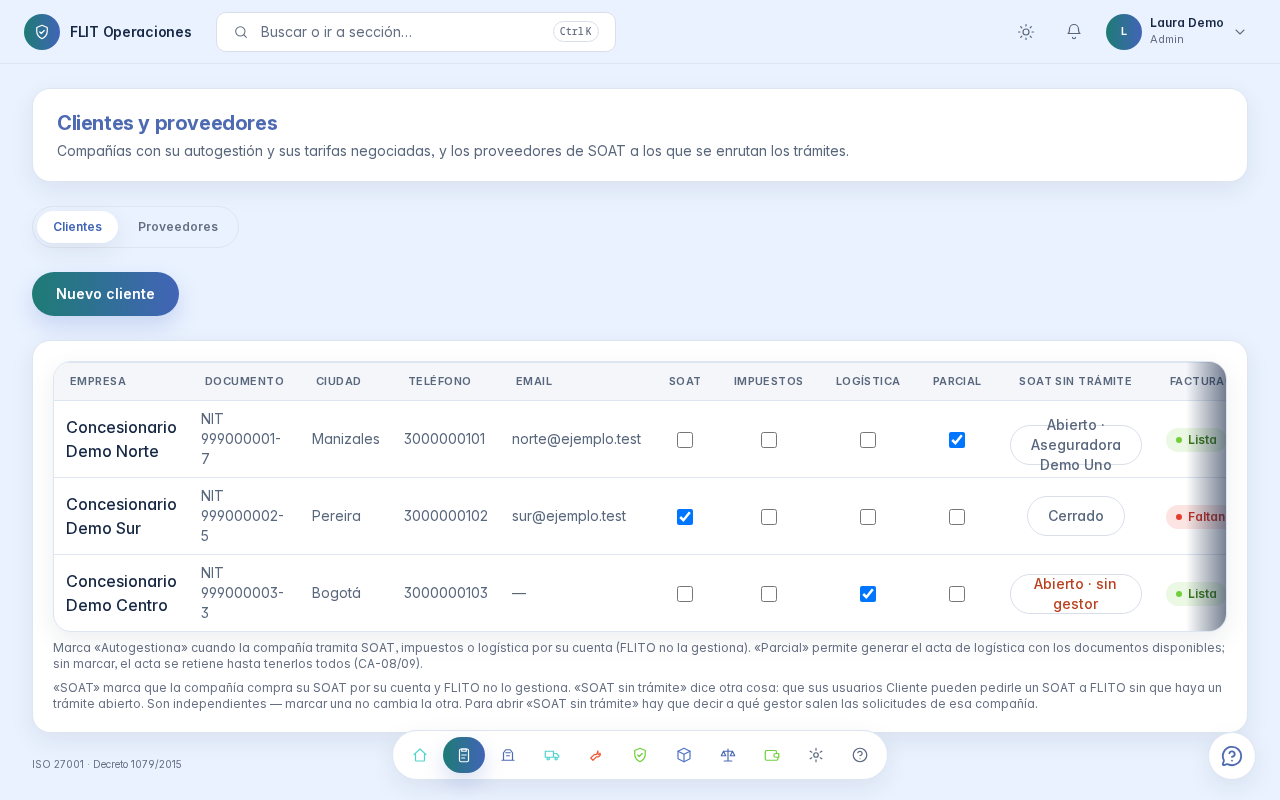
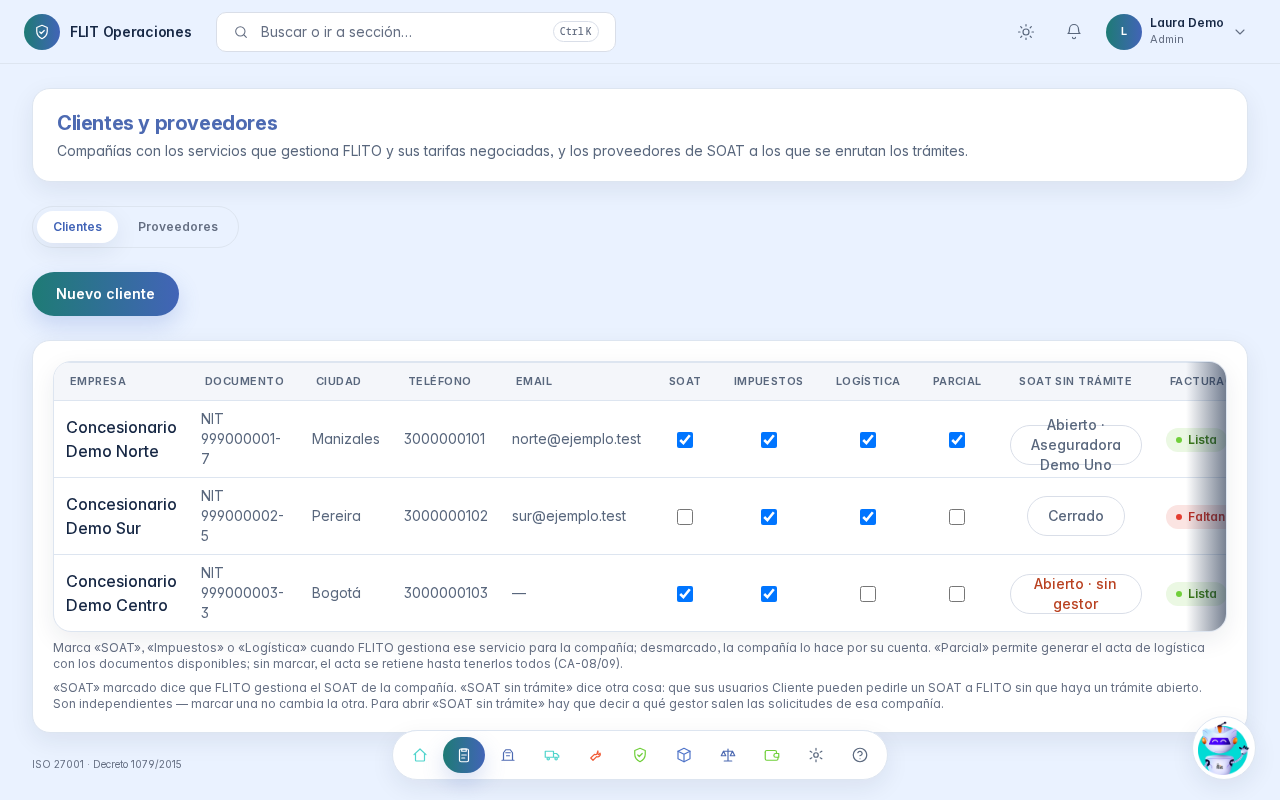
Merge pull request #590 from flitsas/HU/13935-davidchica-checks-servicio-flito-gestiona
HU 13935: checks de servicio de Clientes y Trámites se leen como «FLITO gestiona este servicio»

(cherry picked from commit 7e073a7977bce29601f5767464607f284d6aab4a)

diff --git a/apps/web/e2e/tests/clients-autogestion.spec.ts b/apps/web/e2e/tests/clients-autogestion.spec.ts
@@ -1,6 +1,9 @@
-// Clientes (/clients) — una sola tabla: info de empresa + checkboxes de autogestión FLITO
+// Clientes (/clients) — una sola tabla: info de empresa + checkboxes de servicio
 // (SOAT/Impuestos/Logística) inline. Un cliente ES una compañía FLITO (§correcciones-UX).
 // Solo Operaciones/admin lo ven; backend mockeado.
+//
+// HU #13935: los checks se leen «FLITO gestiona este servicio». El dato `*Autogestionable` conserva
+// su sentido, así que marcado = `false` en el dato. «Parcial» no se invierte (lo retira la #13936).
 import { test, expect } from '../helpers/fixtures';
 import { loginAs, OPERACIONES_USER, AUDITOR_USER } from '../helpers/auth';
 
@@ -8,7 +11,8 @@ const CLIENTES = [
   {
     id: 1, name: 'Concesionario Norte', document: '900111', documentType: 'NIT',
     phone: '3001112233', email: 'norte@x.co', address: null, city: 'Manizales', notes: null, active: true,
-    soatAutogestionable: true, soatSinTramite: false, impuestosAutogestionable: false, logisticaAutogestionable: false,
+    soatAutogestionable: true, soatSinTramite: false, impuestosAutogestionable: false, logisticaAutogestionable: true,
+    logisticaPermiteParcial: true,
   },
 ];
 
@@ -17,25 +21,61 @@ async function mock(page: import('@playwright/test').Page, clientes = CLIENTES) 
     route.fulfill({ status: 200, contentType: 'application/json', body: JSON.stringify(clientes) }));
 }
 
-test.describe('Clientes · autogestión FLITO', () => {
-  test('operaciones ve una sola tabla con la empresa y sus checkboxes de autogestión', async ({ page }) => {
+const check = (page: import('@playwright/test').Page, servicio: string) =>
+  page.getByRole('checkbox', { name: `FLITO gestiona ${servicio} de Concesionario Norte` });
+
+test.describe('Clientes · servicios que gestiona FLITO (HU #13935)', () => {
+  test('AC1/AC5: el check marcado es «FLITO gestiona» y lee el dato invertido', async ({ page }) => {
     await loginAs(page, OPERACIONES_USER);
     await mock(page);
+    let patches = 0;
+    await page.route(/\/api\/flito\/parametrizacion\/companias\//, (route) => { patches += 1; return route.fulfill({ status: 200, body: '{}' }); });
 
     await page.goto('/clients');
     await expect(page.getByText('Concesionario Norte')).toBeVisible();
-    // Info relevante de la empresa.
     await expect(page.getByRole('cell', { name: /900111/ })).toBeVisible();
     await expect(page.getByRole('cell', { name: 'Manizales' })).toBeVisible();
-    // Checkboxes reflejan los flags: SOAT marcado, Impuestos/Logística no.
-    await expect(page.getByRole('checkbox', { name: /Autogestión SOAT de Concesionario Norte/ })).toBeChecked();
-    await expect(page.getByRole('checkbox', { name: /Autogestión Impuestos de Concesionario Norte/ })).not.toBeChecked();
-    // Ya no hay dos tablas ni botón Editar / columna Tolerancia.
+    // soat=true → desmarcado; impuestos=false → marcado; logística=true → desmarcado.
+    await expect(check(page, 'SOAT')).not.toBeChecked();
+    await expect(check(page, 'Impuestos')).toBeChecked();
+    await expect(check(page, 'Logística')).not.toBeChecked();
+    // «Parcial» conserva su lectura directa.
+    await expect(page.getByRole('checkbox', { name: 'Entregas parciales de Concesionario Norte' })).toBeChecked();
+    // AC5: ningún nombre accesible ni nota habla de «Autogestión» del check.
+    await expect(page.getByRole('checkbox', { name: /Autogestión/ })).toHaveCount(0);
+    await expect(page.getByText(/Marca «Autogestiona»/)).toHaveCount(0);
+    await expect(page.getByText(/cuando FLITO gestiona ese servicio/)).toBeVisible();
+    // Solo pintar no escribe nada.
+    expect(patches).toBe(0);
     await expect(page.getByRole('button', { name: 'Editar' })).toHaveCount(0);
     await expect(page.getByRole('columnheader', { name: /Tolerancia/i })).toHaveCount(0);
   });
 
-  test('marcar un checkbox dispara el PATCH del flag de la compañía', async ({ page }) => {
+  test('AC2: marcar Logística envía logisticaAutogestionable=false y sigue marcado al recargar', async ({ page }) => {
+    await loginAs(page, OPERACIONES_USER);
+    let datos = CLIENTES.map((c) => ({ ...c }));
+    await page.route(/\/api\/clients(\?|$)/, (route) =>
+      route.fulfill({ status: 200, contentType: 'application/json', body: JSON.stringify(datos) }));
+    let body: Record<string, unknown> | null = null;
+    await page.route(/\/api\/flito\/parametrizacion\/companias\/1$/, async (route) => {
+      body = route.request().postDataJSON() as Record<string, unknown>;
+      expect(route.request().method()).toBe('PATCH');
+      datos = datos.map((c) => ({ ...c, ...body }));
+      return route.fulfill({ status: 200, contentType: 'application/json', body: JSON.stringify({ id: 1 }) });
+    });
+
+    await page.goto('/clients');
+    await check(page, 'Logística').check();
+
+    await expect.poll(() => body).not.toBeNull();
+    expect(body).toEqual({ logisticaAutogestionable: false });
+    await expect(check(page, 'Logística')).toBeChecked();
+
+    await page.reload();
+    await expect(check(page, 'Logística')).toBeChecked();
+  });
+
+  test('desmarcar Impuestos envía impuestosAutogestionable=true', async ({ page }) => {
     await loginAs(page, OPERACIONES_USER);
     await mock(page);
     let body: Record<string, unknown> | null = null;
@@ -45,11 +85,70 @@ test.describe('Clientes · autogestión FLITO', () => {
     });
 
     await page.goto('/clients');
-    await page.getByRole('checkbox', { name: /Autogestión Impuestos de Concesionario Norte/ }).check();
+    await check(page, 'Impuestos').uncheck();
+    await expect.poll(() => body).toEqual({ impuestosAutogestionable: true });
+    await expect(check(page, 'Impuestos')).not.toBeChecked();
+  });
 
-    await expect.poll(() => body).not.toBeNull();
-    expect(body).toMatchObject({ impuestosAutogestionable: true });
-    await expect(page.getByRole('checkbox', { name: /Autogestión Impuestos de Concesionario Norte/ })).toBeChecked();
+  test('AC3: si el PATCH falla, el check vuelve y sale un toast cerrable sin el error crudo', async ({ page }) => {
+    await loginAs(page, OPERACIONES_USER);
+    await mock(page);
+    await page.route(/\/api\/flito\/parametrizacion\/companias\/1$/, (route) =>
+      route.fulfill({ status: 500, contentType: 'application/json', body: JSON.stringify({ error: 'DB_TIMEOUT pg_pool' }) }));
+
+    await page.goto('/clients');
+    await check(page, 'SOAT').click();
+    await expect(check(page, 'SOAT')).not.toBeChecked();
+
+    const aviso = page.getByRole('alert').filter({ hasText: 'No se pudo guardar «SOAT» de Concesionario Norte' });
+    await expect(aviso).toBeVisible();
+    await expect(aviso).not.toContainText('DB_TIMEOUT');
+    await aviso.getByRole('button', { name: 'Cerrar aviso' }).click();
+    await expect(aviso).toHaveCount(0);
+  });
+});
+
+// AC4 — modal «Crear empresa» de Gestión Trámites: mismo sentido de lectura.
+const FILA_SIN_EMPRESA = {
+  tramiteId: 'cccccccc-0000-0000-0000-000000000001', idFlit: 'FLIT-3001', estado: 'Asignado', asignado: true,
+  fuente: 'flit', tipoTramite: 'Matricula', ciudad: 'Manizales', fechaCreacion: null, fechaAprobacion: null,
+  derechoTramiteValor: null, empresaExiste: false, empresaNit: '900999', secretariaEmparejada: true,
+  transitoNombre: 'STT Manizales', facturaVentaFlitId: null, companiaNombre: 'Empresa Nueva',
+  organismoNombre: 'STT Manizales', vehiculo: { vin: 'VIN000000000301', placa: 'PLC301', marca: 'Mazda', linea: '2', tipoVehiculo: null },
+  compradorPrincipal: null, compradores: [], soat: null, soatAutogestionado: false, impuesto: null,
+  impuestosAutogestionado: false, excepcionesAutogestion: [], listoParaEntregar: false,
+};
+
+test('AC4: «Crear empresa» titula «Servicios que gestiona FLITO» y lo marcado viaja como *Autogestionable=false', async ({ page }) => {
+  await page.route(/\/api\/flito\/tramites\/facetas/, (route) => route.fulfill({ status: 200, contentType: 'application/json',
+    body: JSON.stringify({ estados: ['Asignado'], tramites: ['Matricula'], ciudades: ['Manizales'], transitos: ['STT Manizales'] }) }));
+  await page.route(/\/api\/flito\/tramites\?/, (route) => route.fulfill({ status: 200, contentType: 'application/json',
+    body: JSON.stringify({ items: [FILA_SIN_EMPRESA], total: 1, page: 1, pageSize: 50 }) }));
+  let body: Record<string, unknown> | null = null;
+  await page.route(/\/api\/flito\/tramites\/crear-empresa$/, (route) => {
+    body = route.request().postDataJSON() as Record<string, unknown>;
+    return route.fulfill({ status: 200, contentType: 'application/json', body: JSON.stringify({ id: 9 }) });
+  });
+  await loginAs(page, OPERACIONES_USER);
+  await page.goto('/flito/tramites');
+  await page.getByRole('button', { name: 'Crear empresa' }).click();
+
+  const modal = page.getByRole('dialog');
+  await expect(modal.getByText('Servicios que gestiona FLITO')).toBeVisible();
+  await expect(modal.getByText(/Autogestión/)).toHaveCount(0);
+  // El estado inicial del dato (`false` = FLITO gestiona) no cambia en esta HU (lo hace la #13937):
+  // por eso las tres casillas nacen marcadas. Desmarcar Impuestos ⇒ la empresa lo hace por su cuenta.
+  await expect(modal.getByRole('checkbox', { name: 'SOAT' })).toBeChecked();
+  await modal.getByRole('checkbox', { name: 'Impuestos' }).uncheck();
+  // «Marcar SOAT» se ejercita de verdad: desmarcar y volver a marcar recorre los dos sentidos del onChange.
+  await modal.getByRole('checkbox', { name: 'SOAT' }).uncheck();
+  await expect(modal.getByRole('checkbox', { name: 'SOAT' })).not.toBeChecked();
+  await modal.getByRole('checkbox', { name: 'SOAT' }).check();
+  await modal.getByRole('button', { name: 'Crear empresa' }).click();
+
+  await expect.poll(() => body).not.toBeNull();
+  expect(body).toMatchObject({
+    nit: '900999', soatAutogestionable: false, impuestosAutogestionable: true, logisticaAutogestionable: false,
   });
 });
 

diff --git a/apps/web/src/pages/Clients.tsx b/apps/web/src/pages/Clients.tsx
@@ -4,18 +4,23 @@
 // compañía: en una se marcaba si autogestiona, en la otra se le ponían las tarifas — y el toggle de
 // autogestión ya llamaba al endpoint de parametrización. Todo lo que es del cliente vive aquí.
 //
+// Los checks de servicio se leen «FLITO gestiona este servicio» (HU #13935): marcado = FLITO lo
+// gestiona; desmarcado = la compañía lo hace por su cuenta. Es una inversión SOLO de presentación:
+// el dato sigue siendo `*Autogestionable` con su sentido de siempre, así que `checked = !dato`.
+//
 // Las tarifas ya NO viven aquí (HU #12375): el botón «Tarifas» de la fila lleva al configurador de
 // valores (`/flito/tarifas/:companiaId`), que modela cada valor como una vigencia con historial. La
 // ventana emergente que dejaba escribir el tipo a mano y marcar «Inactiva» se retiró con esa HU.
 //
 // Quién puede qué:
 //   admin       — todo.
-//   financiera  — tarifas sí (en su pantalla), autogestión no: qué gestiona FLITO es decisión de Operaciones.
+//   financiera  — tarifas sí (en su pantalla), servicios no: qué gestiona FLITO es decisión de Operaciones.
 //   auditor     — solo lectura.
 
 import { useEffect, useId, useMemo, useState, type FormEvent } from 'react';
 import { Link } from 'react-router-dom';
 import toast from 'react-hot-toast';
+import { toastError } from '../components/flit/ToastFlito';
 import { api, errorMessage } from '../lib/api';
 import { useAuth } from '../lib/auth';
 import { hasPage } from '../lib/permissions';
@@ -85,6 +90,11 @@ interface Proveedor {
 // optimista para ser una decisión con un parámetro obligatorio —el gestor—, y un PATCH por control
 // no sabe expresar «abre el canal y manda a SURA» de una sola vez. Vive en `ModalCanalSoat`.
 type FlagCampo = 'soatAutogestionable' | 'impuestosAutogestionable' | 'logisticaAutogestionable' | 'logisticaPermiteParcial';
+// Los tres `*Autogestionable` se pintan invertidos (HU #13935): el check dice «FLITO gestiona».
+// «Parcial» no es un servicio y conserva su lectura directa.
+const FLAG_INVERTIDO: Record<FlagCampo, boolean> = {
+  soatAutogestionable: true, impuestosAutogestionable: true, logisticaAutogestionable: true, logisticaPermiteParcial: false,
+};
 type Tab = 'clientes' | 'proveedores';
 
 export default function Clients() {
@@ -101,7 +111,7 @@ export default function Clients() {
     <div className="mx-auto flex max-w-[1600px] flex-col gap-5 lg:gap-6">
       <PageHeaderCard
         title="Clientes y proveedores"
-        subtitle="Compañías con su autogestión y sus tarifas negociadas, y los proveedores de SOAT a los que se enrutan los trámites."
+        subtitle="Compañías con los servicios que gestiona FLITO y sus tarifas negociadas, y los proveedores de SOAT a los que se enrutan los trámites."
       />
 
       <FlitPillGroup>
@@ -171,17 +181,22 @@ function TabClientes({ editaAutogestion, veTarifas }: { editaAutogestion: boolea
     }
   };
 
-  // Toggle de autogestión: PATCH del flag suelto. Optimista con reversión si falla.
-  const toggleFlag = async (c: Client, campo: FlagCampo) => {
+  // Toggle de un flag: PATCH del flag suelto. Optimista con reversión si falla. Invertir la lectura
+  // (HU #13935) no cambia esto: marcar o desmarcar siempre voltea el dato, y lo que viaja es el
+  // valor REAL de `*Autogestionable` (marcar «FLITO gestiona» ⇒ `false`).
+  const toggleFlag = async (c: Client, campo: FlagCampo, label: string) => {
     const valor = !c[campo];
     setClients((prev) => (prev ?? []).map((x) => (x.id === c.id ? { ...x, [campo]: valor } : x)));
     try {
       // El PATCH manda UNA sola clave y el servidor copia al `set` solo las claves definidas: por
       // eso la independencia del AC3 es por construcción y no por una regla que haya que recordar.
       await api.patch(`/flito/parametrizacion/companias/${c.id}`, { [campo]: valor });
-    } catch (err) {
+    } catch {
       setClients((prev) => (prev ?? []).map((x) => (x.id === c.id ? { ...x, [campo]: !valor } : x)));
-      toast.error(errorMessage(err));
+      // Copy propio y no el error crudo del API: qué pasó y qué sigue, en una frase.
+      // El toast del kit es cerrable; un id por casilla para que el reintento sustituya y no apile.
+      toastError(`No se pudo guardar «${label}» de ${c.name}: la casilla volvió a como estaba. Inténtelo de nuevo.`,
+        undefined, { id: `flag-${c.id}-${campo}` });
     }
   };
 
@@ -190,10 +205,10 @@ function TabClientes({ editaAutogestion, veTarifas }: { editaAutogestion: boolea
       <input
         type="checkbox"
         className="h-4 w-4 cursor-pointer align-middle disabled:cursor-not-allowed"
-        checked={c[campo]}
+        checked={FLAG_INVERTIDO[campo] ? !c[campo] : c[campo]}
         disabled={!editaAutogestion}
-        aria-label={aria ?? `Autogestión ${label} de ${c.name}`}
-        onChange={() => toggleFlag(c, campo)}
+        aria-label={aria ?? `FLITO gestiona ${label} de ${c.name}`}
+        onChange={() => toggleFlag(c, campo, label)}
       />
     </td>
   );
@@ -285,13 +300,13 @@ function TabClientes({ editaAutogestion, veTarifas }: { editaAutogestion: boolea
         )}
         {editaAutogestion && (
           <p className="mt-2 text-xs" style={{ color: 'var(--flit-text-muted)' }}>
-            Marca «Autogestiona» cuando la compañía tramita SOAT, impuestos o logística por su cuenta (FLITO no la gestiona).
+            Marca «SOAT», «Impuestos» o «Logística» cuando FLITO gestiona ese servicio para la compañía; desmarcado, la compañía lo hace por su cuenta.
             «Parcial» permite generar el acta de logística con los documentos disponibles; sin marcar, el acta se retiene hasta tenerlos todos (CA-08/09).
           </p>
         )}
         {editaAutogestion && (
           <p className="mt-2 text-xs" style={{ color: 'var(--flit-text-muted)' }}>
-            «SOAT» marca que la compañía compra su SOAT por su cuenta y FLITO no lo gestiona. «SOAT sin trámite» dice otra cosa:
+            «SOAT» marcado dice que FLITO gestiona el SOAT de la compañía. «SOAT sin trámite» dice otra cosa:
             que sus usuarios Cliente pueden pedirle un SOAT a FLITO sin que haya un trámite abierto. Son independientes — marcar una no cambia la otra.
             Para abrir «SOAT sin trámite» hay que decir a qué gestor salen las solicitudes de esa compañía.
           </p>

diff --git a/apps/web/e2e/tests/flito-ayuda-artefactos.spec.ts b/apps/web/e2e/tests/flito-ayuda-artefactos.spec.ts
@@ -291,7 +291,7 @@ test.describe('FLITO — Ayuda · artefactos AC6/AC7', () => {
   // HU #13771 — manuales del área Corredor SOAT: misma comprobación que el bloque de Facturación (versión y fecha
   // exactas, capturas citadas en orden con alt y ≤ 200 KB, diagrama SVG con alt o ninguno). Tablero y Bitácora
   // son de solo lectura y de tres pasos o menos: sin diagrama.
-  const SOAT_13771: Record<string, { version: string; capturas: string[]; diagrama: string | null }> = {
+  const SOAT_13771: Record<string, { version: string; capturas: string[]; diagrama: string | null; fecha?: string }> = {
     soat: { version: '1.2', diagrama: 'ciclo-soat.svg', capturas: [
       '01-cola.png', '02-enviar-al-gestor.png', '03-detalle.png', '04-solicitar-soat.png'] },
     flito_tramites: { version: '1.2', diagrama: 'camino-a-entregar.svg', capturas: [
@@ -301,19 +301,20 @@ test.describe('FLITO — Ayuda · artefactos AC6/AC7', () => {
     flito_bitacora: { version: '1.2', diagrama: null, capturas: ['01-movimientos.png'] },
     flito_comparendos: { version: '1.2', diagrama: 'ciclo-monitoreo.svg', capturas: [
       '01-registros.png', '02-detalle.png', '03-sincronizacion.png', '04-configuracion.png'] },
-    clients: { version: '1.2', diagrama: 'canal-soat-sin-tramite.svg', capturas: [
+    // HU #13935: la ficha de Clientes cambió después (checks «FLITO gestiona»).
+    clients: { version: '1.3', fecha: '2026-10-24', diagrama: 'canal-soat-sin-tramite.svg', capturas: [
       '01-clientes.png', '02-soat-sin-tramite.png', '03-proveedores.png'] },
     flito_tablero: { version: '1.2', diagrama: null, capturas: ['01-indicadores-y-alertas.png', '02-por-estado.png'] },
   };
 
   for (const [clave, esperado] of Object.entries(SOAT_13771)) {
-    test(`HU #13771 — ${clave}: versión ${esperado.version} del 2026-10-22, capturas y diagrama con alt`, () => {
+    test(`HU #13771 — ${clave}: versión ${esperado.version} del ${esperado.fecha ?? '2026-10-22'}, capturas y diagrama con alt`, () => {
       const md = leer(`apps/web/src/content/ayuda/${clave}.md`);
       const { encabezado, errores } = parsearFicha(md);
       expect(errores, clave).toEqual([]);
       // AC5 — la ficha cambió: sube la versión menor y la fecha.
       expect(encabezado!.version, `${clave} · version`).toBe(esperado.version);
-      expect(String(encabezado!.fecha), `${clave} · fecha`).toBe('2026-10-22');
+      expect(String(encabezado!.fecha), `${clave} · fecha`).toBe(esperado.fecha ?? '2026-10-22');
       // AC4 — sin rutas de API ni rutas de la app en el texto.
       expect(md, `${clave} · sin rutas`).not.toMatch(/`\/|\/api\//);
 

diff --git a/apps/web/src/pages/FlitoTramites.tsx b/apps/web/src/pages/FlitoTramites.tsx
@@ -948,6 +948,7 @@ function ModalDesbloqueo({ fila, onCerrar, onHecho }: {
 
 function ModalCrearEmpresa({ fila, onCerrar, onCreado }: { fila: TramiteFila; onCerrar: () => void; onCreado: () => void }) {
   const [nombre, setNombre] = useState(fila.companiaNombre ?? '');
+  // El estado guarda el DATO (`*Autogestionable`); el check lo pinta invertido: «FLITO gestiona» (HU #13935).
   const [soatAuto, setSoatAuto] = useState(false);
   const [impuestosAuto, setImpuestosAuto] = useState(false);
   const [logisticaAuto, setLogisticaAuto] = useState(false);
@@ -978,11 +979,11 @@ function ModalCrearEmpresa({ fila, onCerrar, onCreado }: { fila: TramiteFila; on
           <input className={flitInp} value={nombre} onChange={(e) => setNombre(e.target.value)} placeholder="Razón social de la empresa" autoFocus />
         </FlitField>
         <div>
-          <p className="mb-1 text-[11px] font-semibold" style={{ color: 'var(--flit-text-muted)' }}>Autogestión (qué gestiona la empresa por su cuenta)</p>
+          <p className="mb-1 text-[11px] font-semibold" style={{ color: 'var(--flit-text-muted)' }}>Servicios que gestiona FLITO</p>
           <div className="flex flex-wrap gap-4 text-sm" style={{ color: 'var(--flit-text-secondary)' }}>
-            <label className="flex items-center gap-1.5"><input type="checkbox" checked={soatAuto} onChange={(e) => setSoatAuto(e.target.checked)} /> SOAT</label>
-            <label className="flex items-center gap-1.5"><input type="checkbox" checked={impuestosAuto} onChange={(e) => setImpuestosAuto(e.target.checked)} /> Impuestos</label>
-            <label className="flex items-center gap-1.5"><input type="checkbox" checked={logisticaAuto} onChange={(e) => setLogisticaAuto(e.target.checked)} /> Logística</label>
+            <label className="flex items-center gap-1.5"><input type="checkbox" checked={!soatAuto} onChange={(e) => setSoatAuto(!e.target.checked)} /> SOAT</label>
+            <label className="flex items-center gap-1.5"><input type="checkbox" checked={!impuestosAuto} onChange={(e) => setImpuestosAuto(!e.target.checked)} /> Impuestos</label>
+            <label className="flex items-center gap-1.5"><input type="checkbox" checked={!logisticaAuto} onChange={(e) => setLogisticaAuto(!e.target.checked)} /> Logística</label>
           </div>
         </div>
         {error && <p className="text-sm text-red-600">{error}</p>}

diff --git a/apps/web/src/content/ayuda/clients.md b/apps/web/src/content/ayuda/clients.md
@@ -1,24 +1,26 @@
 ---
-resumen: Empresas, autogestión y datos comerciales.
+resumen: Empresas, servicios que gestiona FLITO y datos comerciales.
 palabras_clave:
   - clientes
   - proveedores
   - empresas
+  - servicios
   - autogestión
 consultas:
   - cómo creo un cliente
   - dónde cambio los datos comerciales de una empresa
   - qué es la autogestión
-version: 1.2
-fecha: 2026-10-22
+  - qué significa marcar SOAT, Impuestos o Logística
+version: 1.3
+fecha: 2026-10-24
 ---
 ## Qué es
 
-Ficha de las compañías (clientes FLITO) con su autogestión y sus datos comerciales, y de los proveedores de SOAT a los que se enrutan los trámites. La columna **Facturación** indica si la compañía está lista para una **emisión electrónica** posterior; no es **Facturar** en sentido FLITO (congelar la liquidación). Usted parametriza; no despacha.
+Ficha de las compañías (clientes FLITO) con los servicios que FLITO les gestiona y sus datos comerciales, y de los proveedores de SOAT a los que se enrutan los trámites. La columna **Facturación** indica si la compañía está lista para una **emisión electrónica** posterior; no es **Facturar** en sentido FLITO (congelar la liquidación). Usted parametriza; no despacha.
 
 ## Para quién
 
-Administrador (crea compañías, marca autogestión y edita proveedores). Financiera (en gestión solo ve esta pantalla, además de finanzas). Auditor (consulta). El Proveedor y el Gestor de Impuestos no entran aquí.
+Administrador (crea compañías, marca los servicios que gestiona FLITO y edita proveedores). Financiera (en gestión solo ve esta pantalla, además de finanzas). Auditor (consulta). El Proveedor y el Gestor de Impuestos no entran aquí.
 
 ## Cómo se entra
 
@@ -28,7 +30,7 @@ En la barra de navegación al pie de la pantalla, pulse **Gestión** y, en el pa
 
 1. Elija la pestaña **Clientes** o **Proveedores**.
 2. En **Clientes**, pulse **Nuevo cliente**, complete **Nombre o razón social** (obligatorio) y, si los tiene, **NIT / Cédula**, **Teléfono** y **Email**, y pulse **Guardar** (o **Cancelar**).
-3. En cada fila, marque autogestión **SOAT**, **Impuestos**, **Logística** y **Parcial** (entregas parciales). Eso decide qué gestiona FLITO y qué queda en autogestión de la compañía. Debajo de la tabla, dos notas recuerdan qué significa cada casilla. ![Pestaña Clientes con tres compañías demo, sus casillas de autogestión, la columna SOAT sin trámite y el chip de Facturación](./clients/01-clientes.png)
+3. En cada fila, marque **SOAT**, **Impuestos** y **Logística** para indicar que FLITO gestiona ese servicio para la compañía; si la casilla queda desmarcada, la compañía lo hace por su cuenta (autogestión). La casilla **Parcial** (entregas parciales) permite generar el acta de logística con los documentos disponibles. Debajo de la tabla, dos notas recuerdan qué significa cada casilla. ![Pestaña Clientes con tres compañías demo, sus casillas de servicios, la columna SOAT sin trámite y el chip de Facturación](./clients/01-clientes.png)
 4. Al final de las casillas, la columna **SOAT sin trámite** dice si el canal de esa compañía está **Cerrado** o **Abierto** y, si lo está, a qué gestor salen sus solicitudes (por ejemplo, **Abierto · Aseguradora Demo Uno**). Púlselo para abrir el cuadro **SOAT sin trámite · (compañía)**: marque **Canal abierto** para que los usuarios **Cliente** de esa compañía puedan pedirle un SOAT a FLITO sin que haya un trámite abierto, elija el **Gestor por defecto** de la lista y pulse **Guardar**. Las dos cosas se guardan juntas; si abre el canal sin elegir gestor, el cuadro se lo pide y no guarda nada. Es independiente de **SOAT**: marcar o desmarcar una no cambia la otra, y una compañía nueva nace con el canal **Cerrado**. **Financiera** y **Auditor** leen la columna pero no la cambian. ![Cuadro SOAT sin trámite de una compañía con la casilla Canal abierto marcada y el gestor por defecto elegido](./clients/02-soat-sin-tramite.png)
 5. Desplace la tabla a la derecha para ver las acciones de la fila. Pulse **Tarifas** para ir al configurador de valores de esa compañía (en Finanzas, **Tarifas**), con la compañía ya elegida; el botón solo lo ven quienes entran a esa pantalla. Pulse **Datos fiscales** para los datos de **emisión electrónica**. El chip de la columna **Facturación** (**Lista**, **Por clasificar** o **Faltan** con el número de datos que faltan) resume si la compañía puede emitirse después.
 6. En **Proveedores**, **Nuevo proveedor** (o **Editar** en la fila): **Nombre**, **Estrategia**, **Umbral OCR (0–1)**, **ANS pactado con el proveedor (horas)** y **Activo**. **Guardar**. El ANS de gestión es único para toda la operación: estas horas quedan como referencia de lo pactado. ![Pestaña Proveedores con dos gestores demo, su estrategia, umbral OCR, ANS pactado, estado y el botón Editar](./clients/03-proveedores.png)
@@ -40,7 +42,7 @@ En la barra de navegación al pie de la pantalla, pulse **Gestión** y, en el pa
 - Cargando: **Cargando compañías…** mientras llega el listado de clientes; **Cargando…** en el listado de proveedores.
 - Error: si el listado de compañías no llega, mensaje en rojo con **Reintentar** sobre la tarjeta; además, aviso al fallar el guardado (el listado no se cae si falla el informe de facturación).
 - Vacío: **No hay clientes.** / **No hay proveedores. Crea el primero con «Nuevo proveedor».**
-- Lleno: tabla **Empresa**, **Documento**, **Ciudad**, **Teléfono**, **Email**, las casillas de autogestión, **SOAT sin trámite**, **Facturación** y acciones. Si el gestor por defecto de una compañía está desactivado, la columna lo dice —**Abierto · (gestor) (inactivo)**— y sus solicitudes nuevas quedan **Gestionado por Operaciones**.
+- Lleno: tabla **Empresa**, **Documento**, **Ciudad**, **Teléfono**, **Email**, las casillas de servicios (**SOAT**, **Impuestos**, **Logística**: marcada = FLITO lo gestiona) y **Parcial**, **SOAT sin trámite**, **Facturación** y acciones. Si el gestor por defecto de una compañía está desactivado, la columna lo dice —**Abierto · (gestor) (inactivo)**— y sus solicitudes nuevas quedan **Gestionado por Operaciones**.
 - La columna también puede decir **Abierto · sin gestor**: el canal está abierto pero esa compañía no tiene **Gestor por defecto** configurado. Mientras siga así, sus solicitudes nuevas quedan **Gestionado por Operaciones**, igual que si el gestor estuviera desactivado. Púlselo, elija el **Gestor por defecto** y **Guardar**.
 - En el cuadro de **SOAT sin trámite**, la lista de gestores tiene sus propios estados: **Cargando gestores…**, **No se pudieron cargar los gestores.** con **Volver a cargar gestores**, y **No hay gestores de SOAT activos. Cree uno en la pestaña Proveedores antes de abrir el canal de esta compañía.**
 
